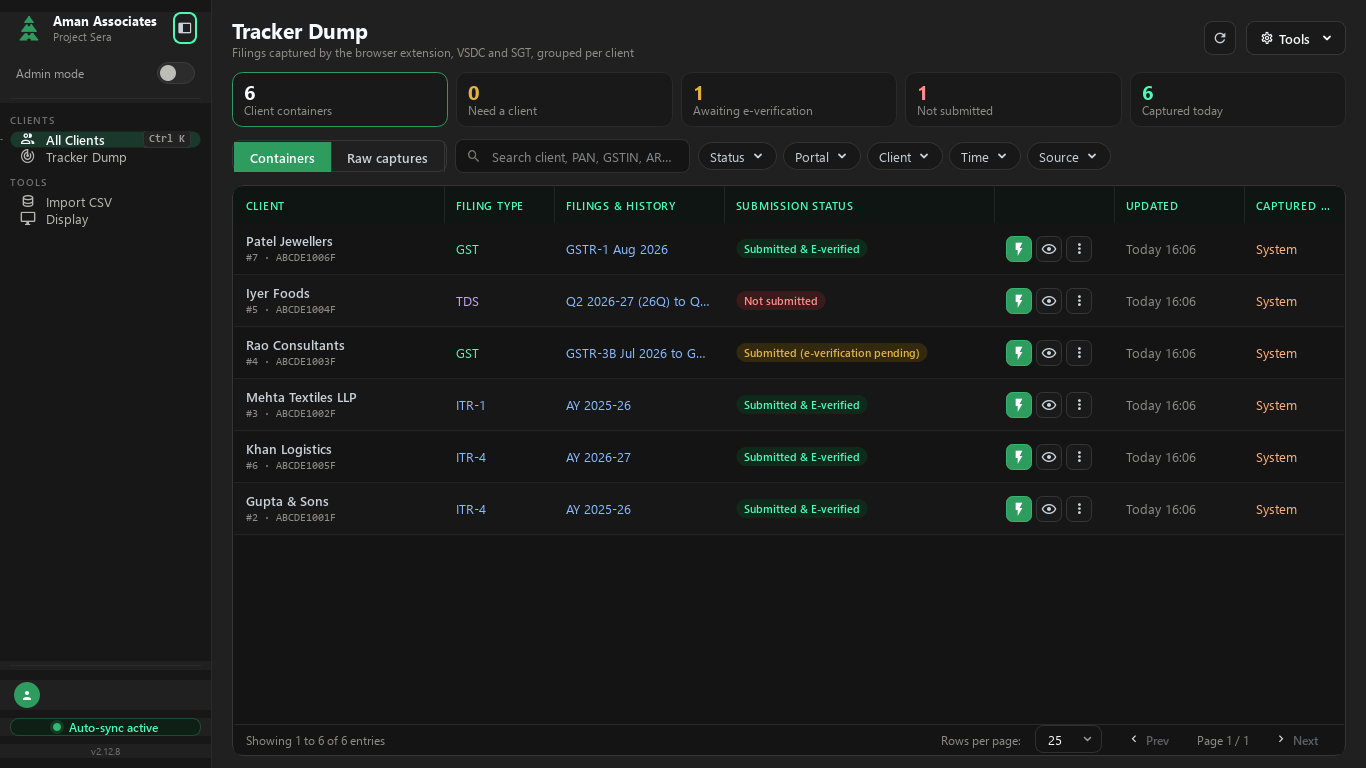
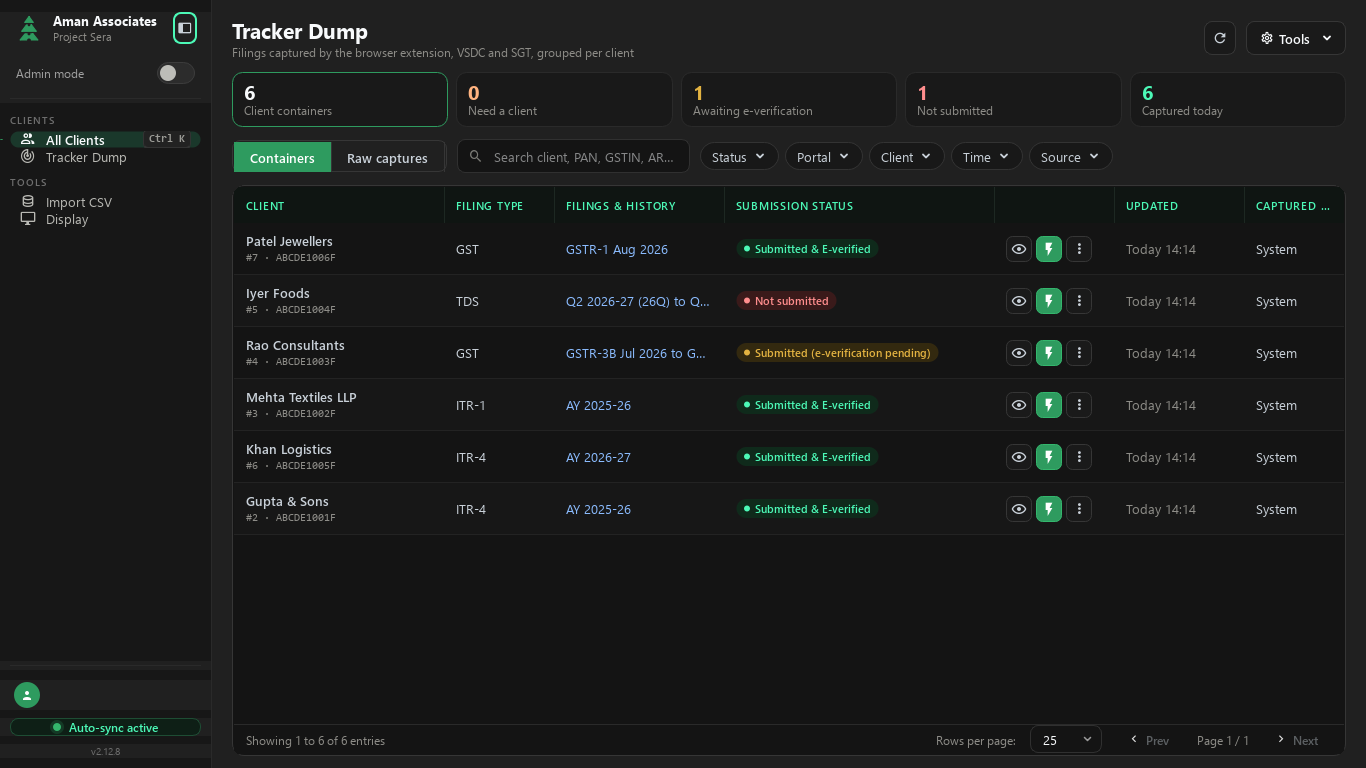
ui-overhaul P-7: Tracker Dump: status pills carry the dot (text, tone, dot); row actions Inspect, Autofill, More (owner decision 3); Filing type and Captured by plain text; Need a client tile orange; filter row gap 10; search box max 360; page-size select 72 px

diff --git a/ui/windows/tracker_dump_window.py b/ui/windows/tracker_dump_window.py
@@ -232,9 +232,9 @@ _STATUS_PILL_TONES = {
 }
 
 
-def _status_pill(status_text: str) -> tuple[str, str]:
-    """The grid delegate's pill for a submission status: (text, tone)."""
-    return status_text, _STATUS_PILL_TONES.get(status_text, "red")
+def _status_pill(status_text: str) -> tuple[str, str, bool]:
+    """The grid delegate's pill for a submission status: (text, tone, dot)."""
+    return status_text, _STATUS_PILL_TONES.get(status_text, "red"), True
 
 
 def _portal_ink(label: str) -> str:
@@ -727,7 +727,7 @@ class PayloadInspectorDialog(QDialog):
         if is_unreg:
             frame.add_header_widget(Pill("No matching client", "amber"))
         head_status, _ = _resolve_ltt_submission_status(item_data)
-        _, head_tone = _status_pill(head_status)
+        head_tone = _status_pill(head_status)[1]
         status_pill = Pill(head_status, "emerald" if head_tone == "green" else head_tone)
         status_pill.setToolTip("Latest submission status")
         frame.add_header_widget(status_pill)
@@ -1502,7 +1502,7 @@ class TrackerDumpWindow(QWidget):
         self._summary_tiles = {}
         for key, caption, tone, tip in (
             ("total", "Client containers", None, "Show everything (clears all filters)"),
-            ("unregistered", "Need a client", "amber", "Captures not matched to a registered client"),
+            ("unregistered", "Need a client", "orange", "Captures not matched to a registered client"),
             ("pending", "Awaiting e-verification", "amber", "Submitted, e-verification still pending"),
             ("not_submitted", "Not submitted", "red", "Not submitted or option expired"),
             ("today", "Captured today", "emerald", "Updated since midnight"),
@@ -1516,7 +1516,7 @@ class TrackerDumpWindow(QWidget):
         # ---- Filter row ----
         filter_layout = QHBoxLayout()
         filter_layout.setContentsMargins(0, 0, 0, 0)
-        filter_layout.setSpacing(T["s_2"])
+        filter_layout.setSpacing(K["gap_filter_row"])
         main_layout.addLayout(filter_layout)
         self._filter_layout = filter_layout
         # COMPACT moves the filter chips onto this second row (hidden in WIDE, so it takes no space).
@@ -1660,6 +1660,7 @@ class TrackerDumpWindow(QWidget):
 
         self.cmb_page_size = Select(items=["25", "50", "100", "200", "All"])
         self.cmb_page_size.setFixedHeight(K["h_sm"])
+        self.cmb_page_size.setFixedWidth(K["w_pager_sel"])
         self.cmb_page_size.setCurrentText("25")
         self.cmb_page_size.currentIndexChanged.connect(self._on_page_size_changed)
         self.grid_footer.add_widget(self.cmb_page_size)
@@ -1743,7 +1744,7 @@ class TrackerDumpWindow(QWidget):
         self._lbl_subtitle.setVisible(not compact)
 
         self.txt_search.setMinimumWidth(180)
-        self.txt_search.setMaximumWidth(320)
+        self.txt_search.setMaximumWidth(K["w_search_max"])
 
         for button, text, short in self._seg_buttons:
             label = short if compact else text
@@ -2220,13 +2221,14 @@ class TrackerDumpWindow(QWidget):
         """The buttons the grid draws in a row's Actions cell: autofill (registered clients), inspect,
         create client (unregistered rows) and the ⋮ overflow menu. A click arrives in _on_grid_action."""
         actions = []
-        if bool(item.get("client_id")) and not item.get("is_unassigned"):
-            actions.append(self._autofill_action(item))
+        # owner decision 3: Inspect · Autofill · ⋮ (the mockup's order)
         if is_grouped:
             tot = item.get("total_captures", 1)
             actions.append(CellAction("view", "mdi.eye-outline", f"Inspect ({tot} capture{'s' if tot != 1 else ''})"))
         else:
             actions.append(CellAction("view", "mdi.eye-outline", "View Payload"))
+        if bool(item.get("client_id")) and not item.get("is_unassigned"):
+            actions.append(self._autofill_action(item))
         if item.get("is_unassigned") or (not is_grouped and not item.get("client_id")):
             actions.append(CellAction("create", "mdi.account-plus", "Create a client from this capture"))
         actions.append(CellAction("more", "mdi.dots-vertical", "More actions (Create Client, Delete)"))
@@ -2393,7 +2395,7 @@ class TrackerDumpWindow(QWidget):
 
             portal_str = r.get("portal") or "Income Tax Portal"
             short, _ = _portal_short(portal_str)
-            p_item = self._table_item(row_idx, self.COL_FILING, _portal_ink(short))
+            p_item = self._table_item(row_idx, self.COL_FILING, T["text2"])
             p_item.setText(_filing_type(portal_str, short))
             p_item.setToolTip(portal_str)
 
@@ -2414,7 +2416,7 @@ class TrackerDumpWindow(QWidget):
             s_item.setToolTip("\n".join(tooltip_lines))
 
             dev_name = _extract_device_name(r)
-            dev_item = self._table_item(row_idx, self.COL_DEVICE, K["orange"])
+            dev_item = self._table_item(row_idx, self.COL_DEVICE, T["text2"])
             dev_item.setText(dev_name)
             method_val = r.get("capture_method", "Unknown")
             dev_item.setToolTip(f"Device: {dev_name}\nCapture Method: {method_val}")
@@ -2454,7 +2456,7 @@ class TrackerDumpWindow(QWidget):
 
             portal_str = r.get("service_name") or r.get("portal") or "Portal"
             short, _ = _portal_short(portal_str)
-            portal_item = self._table_item(row_idx, self.COL_FILING, _portal_ink(short))
+            portal_item = self._table_item(row_idx, self.COL_FILING, T["text2"])
             portal_item.setText(_filing_type(portal_str, short))
             portal_item.setToolTip(portal_str)
 
@@ -2475,7 +2477,7 @@ class TrackerDumpWindow(QWidget):
             s_item.setToolTip("\n".join(tooltip_lines))
 
             dev_name = _extract_device_name(r)
-            dev_item = self._table_item(row_idx, self.COL_DEVICE, K["orange"])
+            dev_item = self._table_item(row_idx, self.COL_DEVICE, T["text2"])
             dev_item.setText(dev_name)
             method = r.get("capture_method", "DOM_Tracker")
             dev_item.setToolTip(f"Device: {dev_name}\nCapture Method: {method}")

diff --git a/tests/test_ui_tracker_kit.py b/tests/test_ui_tracker_kit.py
@@ -65,8 +65,11 @@ def test_the_grid_holds_no_widgets_in_cells(win):
 def test_status_is_a_pill_and_the_client_cell_has_a_second_line(win):
     pills = [win.table.item(r, W.COL_STATUS).data(ROLE_PILL) for r in range(win.table.rowCount())]
     assert all(p and p[0] and p[1] for p in pills)
-    assert dict(pills)["Submitted & E-verified"] == "emerald"
-    assert dict(pills)["Not submitted"] != "emerald"
+    # (text, tone, dot): the dot is on for every status pill (mockup .gpill)
+    assert all(p[2] for p in pills)
+    tones = {p[0]: p[1] for p in pills}
+    assert tones["Submitted & E-verified"] == "emerald"
+    assert tones["Not submitted"] != "emerald"
     sub = win.table.item(0, W.COL_CLIENT).data(ROLE_SUB)
     assert sub and "ABCPD1001E" in sub
 
@@ -82,8 +85,11 @@ def test_every_row_action_has_a_tooltip_and_autofill_is_the_emerald_primary(win)
     for r in range(win.table.rowCount()):
         actions = win.table.item(r, W.COL_ACTIONS).data(ROLE_ACTIONS)
         assert actions and all(a.tooltip for a in actions)
-    first = win.table.item(0, W.COL_ACTIONS).data(ROLE_ACTIONS)[0]
-    assert first.key == "autofill" and first.primary and first.colour is None   # red means danger only
+    actions = win.table.item(0, W.COL_ACTIONS).data(ROLE_ACTIONS)
+    # owner decision 3: Inspect, then Autofill (the primary), then ⋮
+    assert actions[0].key == "view"
+    auto = next(a for a in actions if a.key == "autofill")
+    assert auto.primary and auto.colour is None   # red means danger only
 
 
 def test_rows_are_the_kit_tall_rows_in_both_modes(win):

diff --git a/tests/test_tracker_dump_autofill_button.py b/tests/test_tracker_dump_autofill_button.py
@@ -82,7 +82,7 @@ class TestTrackerDumpAutofillButton(unittest.TestCase):
         win = TrackerDumpWindow(mock_db, defer_first_load=True)
 
         registered = win._row_actions({"client_id": 5, "portal": "Income Tax"}, is_grouped=True)
-        self.assertEqual([a.key for a in registered], ["autofill", "view", "more"])
+        self.assertEqual([a.key for a in registered], ["view", "autofill", "more"])
 
         unassigned = win._row_actions({"client_id": None, "is_unassigned": True, "portal": "Income Tax"}, is_grouped=True)
         self.assertEqual([a.key for a in unassigned], ["view", "create", "more"])

diff --git a/tests/test_tracker_dump_columns.py b/tests/test_tracker_dump_columns.py
@@ -189,7 +189,7 @@ class TestWidthModes(_WindowCase):
         assert not self.win._lbl_subtitle.isHidden()
         assert not self.win._chip_row.isVisible()
         assert self.win.table.verticalHeader().defaultSectionSize() == 52
-        assert self.win.txt_search.width() == 320
+        assert self.win.txt_search.width() == 360   # mockup: the search box grows to 360
 
     def test_compact_page_moves_the_chips_to_their_own_row_and_back(self):
         self.win.resize(1000, 700)

diff --git a/ui/utils/tokens.py b/ui/utils/tokens.py
@@ -314,6 +314,8 @@ KIT = {
     "gap_main": 12,
     "gap_btn_icon": 3,
     "gap_banner": 10,
+    "gap_filter_row": 10,
+    "w_search_max": 360,
     "h_tile_num": 22,
     "h_tile_num_sm": 18,
     "h_tile_lbl": 17,
